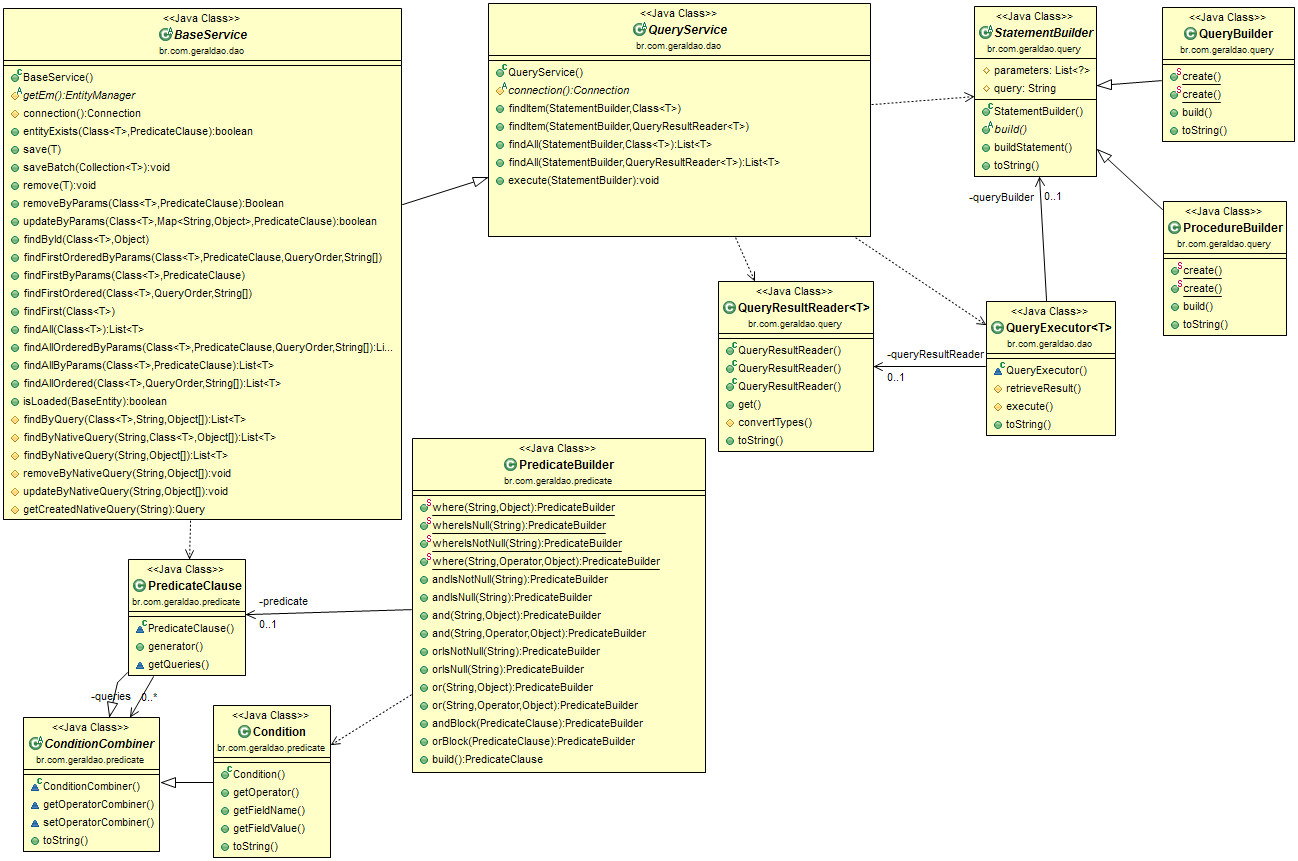
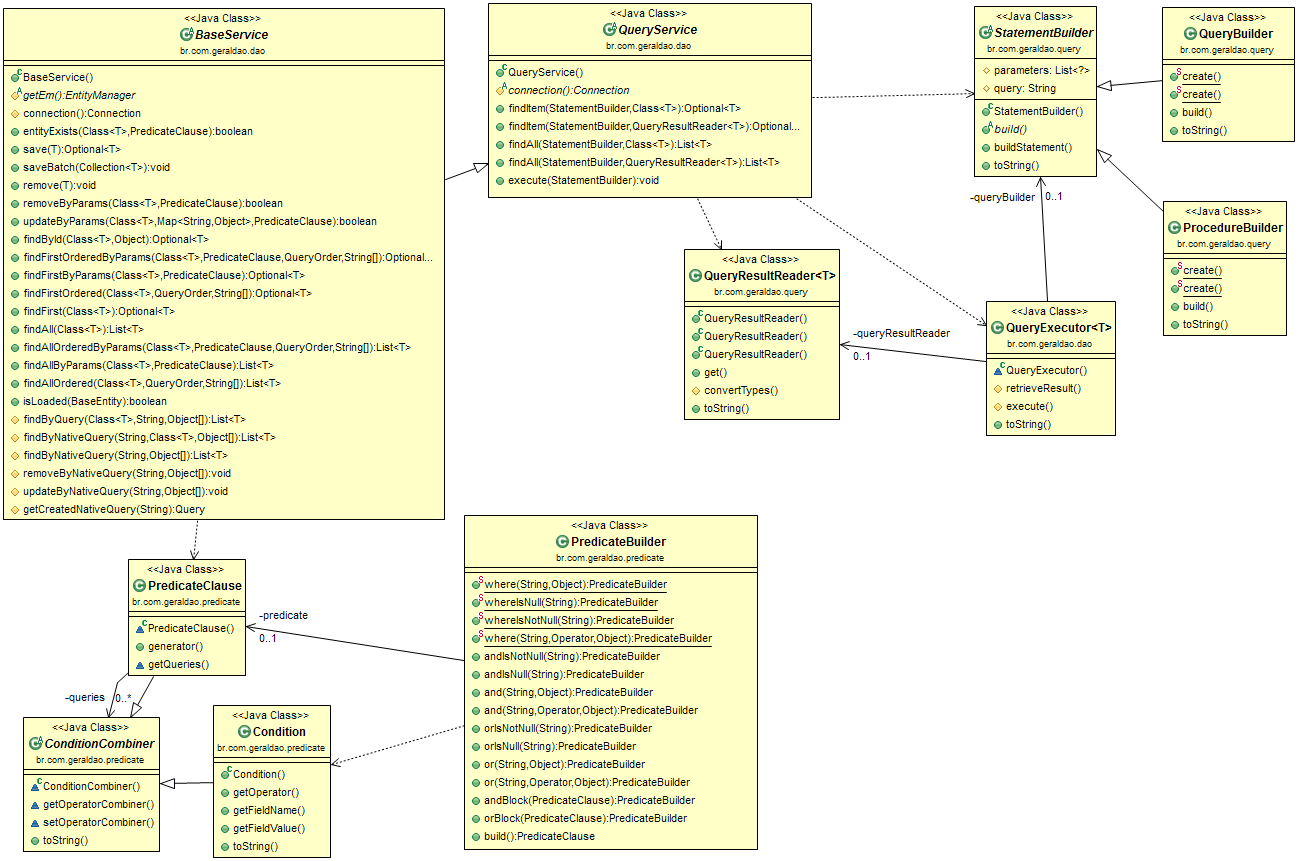
- Added findFirst method without predicateClause
- Change method which return only one object to return an Optional of it.
- Update tests case
- Fixing removing entity on baseService
- Fix getEm() calling more than once on the same method
- updated diagram

diff --git a/src/main/java/br/com/geraldao/dao/BaseService.java b/src/main/java/br/com/geraldao/dao/BaseService.java
@@ -7,6 +7,7 @@ import java.util.Collections;
 import java.util.Iterator;
 import java.util.List;
 import java.util.Map;
+import java.util.Optional;
 
 import javax.persistence.EntityManager;
 import javax.persistence.PersistenceUnitUtil;
@@ -50,7 +51,8 @@ public abstract class BaseService extends QueryService {
     protected Connection connection() {
         String connectionUnwrapError = "Unable to get connection from entityManager. BaseService connection() method must be overrided and implemented according to JPA plataform vendor";
         try {
-            Connection connection = getEm().unwrap(Connection.class);
+            EntityManager em = getEm();
+            Connection connection = em.unwrap(Connection.class);
             if (connection == null) {
                 throw new NullPointerException(connectionUnwrapError);
             }
@@ -72,7 +74,8 @@ public abstract class BaseService extends QueryService {
      * @see PredicateBuilder
      */
     public <T> boolean entityExists(Class<T> entity, PredicateClause predicateClause) {
-        CriteriaBuilder cb = getEm().getCriteriaBuilder();
+        EntityManager em = getEm();
+        CriteriaBuilder cb = em.getCriteriaBuilder();
         CriteriaQuery<Long> cq = cb.createQuery(Long.class);
         Root<T> root = cq.from(entity);
         cq.select(cb.count(root));
@@ -82,7 +85,7 @@ public abstract class BaseService extends QueryService {
             Predicate[] conditions = predicates.toArray(new Predicate[predicates.size()]);
             cq.where(conditions);
         }
-        Long resultList = getEm().createQuery(cq).getSingleResult();
+        Long resultList = em.createQuery(cq).getSingleResult();
         return resultList > 0;
     }
 
@@ -91,14 +94,17 @@ public abstract class BaseService extends QueryService {
      * 
      * @param entity
      *            - Desired mapped entity object to save
-     * @return - Updated object with new ID (if new object)
+     * @return - Optional with updated object with new ID (if new object)
+     * @throws NullPointerException
+     *             if optional is null
      */
-    public <T extends BaseEntity> T save(T entity) {
+    public <T extends BaseEntity> Optional<T> save(T entity) {
+        EntityManager em = getEm();
         if (entity.getId() == null) {
-            getEm().persist(entity);
-            return entity;
+            em.persist(entity);
+            return Optional.of(entity);
         } else {
-            return getEm().merge(entity);
+            return Optional.of(em.merge(entity));
         }
     }
 
@@ -109,12 +115,13 @@ public abstract class BaseService extends QueryService {
      *            - Collection with items to save
      */
     public <T extends BaseEntity> void saveBatch(Collection<T> items) {
+        EntityManager em = getEm();
         for (Iterator<T> iterator = items.iterator(); iterator.hasNext();) {
             T t = (T) iterator.next();
             if (t.getId() == null) {
-                getEm().persist(t);
+                em.persist(t);
             } else {
-                getEm().merge(t);
+                em.merge(t);
             }
         }
     }
@@ -126,7 +133,9 @@ public abstract class BaseService extends QueryService {
      *            - Item desired to remove
      */
     public <T extends BaseEntity> void remove(T entity) {
-        getEm().remove(entity);
+        EntityManager em = getEm();
+        BaseEntity ref = em.getReference(entity.getClass(), entity.getId());
+        em.remove(ref);
     }
 
     /**
@@ -141,8 +150,9 @@ public abstract class BaseService extends QueryService {
      * @see PredicateClause
      * @see PredicateBuilder
      */
-    public <T> Boolean removeByParams(Class<T> entityClass, PredicateClause predicateClause) {
-        CriteriaBuilder cb = getEm().getCriteriaBuilder();
+    public <T> boolean removeByParams(Class<T> entityClass, PredicateClause predicateClause) {
+        EntityManager em = getEm();
+        CriteriaBuilder cb = em.getCriteriaBuilder();
         CriteriaDelete<T> delete = cb.createCriteriaDelete(entityClass);
         Root<T> root = delete.from(entityClass);
         if (predicateClause != null) {
@@ -150,7 +160,7 @@ public abstract class BaseService extends QueryService {
             Predicate[] conditions = predicates.toArray(new Predicate[predicates.size()]);
             delete.where(conditions);
         }
-        Query query = getEm().createQuery(delete);
+        Query query = em.createQuery(delete);
         int rowCount = query.executeUpdate();
         if (rowCount > 0) {
             return true;
@@ -174,7 +184,8 @@ public abstract class BaseService extends QueryService {
      */
 
     public <T> boolean updateByParams(Class<T> entityClass, Map<String, Object> values, PredicateClause predicateClause) {
-        CriteriaBuilder cb = getEm().getCriteriaBuilder();
+        EntityManager em = getEm();
+        CriteriaBuilder cb = em.getCriteriaBuilder();
         CriteriaUpdate<T> update = cb.createCriteriaUpdate(entityClass);
         Root<T> root = update.from(entityClass);
 
@@ -189,7 +200,7 @@ public abstract class BaseService extends QueryService {
         } else {
             LOGGER.debug("Be careful, you just entered on Isaac mode");
         }
-        Query query = getEm().createQuery(update);
+        Query query = em.createQuery(update);
         int rowCount = query.executeUpdate();
         if (rowCount > 0) {
             return true;
@@ -207,11 +218,12 @@ public abstract class BaseService extends QueryService {
      *            - Entity (table) to be searched.
      * @param id
      *            - value condition to seek
-     * @return - Object according to entityClass type
+     * @return - Object Encapsulated on {@link Optional} interface based on entityClass type
      * @author victor.bello
+     * @see Optional
      */
-    public <T extends BaseEntity> T findById(Class<T> entityClass, Object id) {
-        return getEm().find(entityClass, id);
+    public <T extends BaseEntity> Optional<T> findById(Class<T> entityClass, Object id) {
+        return Optional.ofNullable(getEm().find(entityClass, id));
     }
 
     /**
@@ -225,15 +237,16 @@ public abstract class BaseService extends QueryService {
      *            - Return ordem of the results. {@link QueryOrder#ASC} will return the result in ascending order. The {@link QueryOrder#DESC} will return the result in descending order.
      * @param columns
      *            - When {@link QueryOrder} is passed by argument, this argument becomes required. This parameter informs the columns which should ordered by
-     * @return - Returns the <b>FIRST</b> item found.
+     * @return - Returns the <b>FIRST</b> item found encapsulated on {@link Optional} interface based on entityClass type
      * @author victor.bello
      * @see PredicateClause
      * @see PredicateBuilder
      */
-    public <T extends BaseEntity> T findFirstOrderedByParams(Class<T> entityClass, PredicateClause predicateClause, QueryOrder order, String... columns) {
-        CriteriaQuery<T> cq = generateSelectQuery(entityClass, predicateClause, order, columns);
-        List<T> resultList = getEm().createQuery(cq).setFirstResult(0).setMaxResults(1).getResultList();
-        return resultList == null ? null : resultList.get(0);
+    public <T extends BaseEntity> Optional<T> findFirstOrderedByParams(Class<T> entityClass, PredicateClause predicateClause, QueryOrder order, String... columns) {
+        EntityManager em = getEm();
+        CriteriaQuery<T> cq = generateSelectQuery(em, entityClass, predicateClause, order, columns);
+        List<T> resultList = em.createQuery(cq).setFirstResult(0).setMaxResults(1).getResultList();
+        return resultList == null ? Optional.empty() : Optional.ofNullable(resultList.get(0));
     }
 
     /**
@@ -243,12 +256,12 @@ public abstract class BaseService extends QueryService {
      *            - Entity (table) to be searched.
      * @param predicateClause
      *            - Where condition to filter
-     * @return - Returns the <b>FIRST</b> item found.
+     * @return - Returns the <b>FIRST</b> item found encapsulated on {@link Optional} interface based on entityClass type
      * @author victor.bello
      * @see PredicateClause
      * @see PredicateBuilder
      */
-    public <T extends BaseEntity> T findFirstByParams(Class<T> entityClass, PredicateClause predicateClause) {
+    public <T extends BaseEntity> Optional<T> findFirstByParams(Class<T> entityClass, PredicateClause predicateClause) {
         return findFirstOrderedByParams(entityClass, predicateClause, null);
     }
 
@@ -261,11 +274,11 @@ public abstract class BaseService extends QueryService {
      *            - Return ordem of the results. {@link QueryOrder#ASC} will return the result in ascending order. The {@link QueryOrder#DESC} will return the result in descending order.
      * @param columns
      *            - When {@link QueryOrder} is passed by argument, this argument becomes required. This parameter informs the columns which should ordered by
-     * @return - Returns the <b>FIRST</b> item found.
+     * @return - Returns the <b>FIRST</b> item found encapsulated on {@link Optional} interface based on entityClass type
      * @author victor.bello
      * 
      */
-    public <T extends BaseEntity> T findFirstOrdered(Class<T> entityClass, QueryOrder order, String... columns) {
+    public <T extends BaseEntity> Optional<T> findFirstOrdered(Class<T> entityClass, QueryOrder order, String... columns) {
         return findFirstOrderedByParams(entityClass, null, order, columns);
     }
 
@@ -274,10 +287,10 @@ public abstract class BaseService extends QueryService {
      * 
      * @param entityClass
      *            - Entity (table) to be searched.
-     * @return - Returns the <b>FIRST</b> item found.
+     * @return - Returns the <b>FIRST</b> item found encapsulated on {@link Optional} interface based on entityClass type
      * @author victor.bello
      */
-    public <T extends BaseEntity> T findFirst(Class<T> entityClass) {
+    public <T extends BaseEntity> Optional<T> findFirst(Class<T> entityClass) {
         return findFirstOrderedByParams(entityClass, null, null);
     }
 
@@ -311,8 +324,9 @@ public abstract class BaseService extends QueryService {
      * @see Collections#emptyList()
      */
     public <T extends BaseEntity> List<T> findAllOrderedByParams(Class<T> entityClass, PredicateClause predicateClause, QueryOrder order, String... columns) {
-        CriteriaQuery<T> cq = generateSelectQuery(entityClass, predicateClause, order, columns);
-        List<T> resultList = getEm().createQuery(cq).getResultList();
+        EntityManager em = getEm();
+        CriteriaQuery<T> cq = generateSelectQuery(em, entityClass, predicateClause, order, columns);
+        List<T> resultList = em.createQuery(cq).getResultList();
         return resultList == null ? Collections.emptyList() : resultList;
     }
 
@@ -364,8 +378,8 @@ public abstract class BaseService extends QueryService {
         return unitUtil.isLoaded(entity);
     }
 
-    private <T extends BaseEntity> CriteriaQuery<T> generateSelectQuery(Class<T> entityClass, PredicateClause predicateClause, QueryOrder order, String... columns) {
-        CriteriaBuilder cb = getEm().getCriteriaBuilder();
+    private <T extends BaseEntity> CriteriaQuery<T> generateSelectQuery(EntityManager em, Class<T> entityClass, PredicateClause predicateClause, QueryOrder order, String... columns) {
+        CriteriaBuilder cb = em.getCriteriaBuilder();
         CriteriaQuery<T> cq = cb.createQuery(entityClass);
         Root<T> root = cq.from(entityClass);
 
@@ -421,11 +435,12 @@ public abstract class BaseService extends QueryService {
      */
     @SuppressWarnings("unchecked")
     protected <T extends BaseEntity> List<T> findByNativeQuery(String query, Class<T> clazz, Object... params) {
+        EntityManager em = getEm();
         Query tquery = null;
         if (clazz == null) {
-            tquery = getEm().createNativeQuery(query, clazz);
+            tquery = em.createNativeQuery(query, clazz);
         } else {
-            tquery = getEm().createNativeQuery(query, clazz);
+            tquery = em.createNativeQuery(query, clazz);
         }
         int idx = 1;
         for (Object param : params) {
@@ -442,7 +457,8 @@ public abstract class BaseService extends QueryService {
     }
 
     protected void removeByNativeQuery(String query, Object... params) {
-        Query tquery = getEm().createNativeQuery(query);
+        EntityManager em = getEm();
+        Query tquery = em.createNativeQuery(query);
         int idx = 1;
         for (Object param : params) {
             tquery.setParameter(idx, param);
@@ -452,7 +468,8 @@ public abstract class BaseService extends QueryService {
     }
 
     protected void updateByNativeQuery(String query, Object... params) {
-        Query tquery = getEm().createNativeQuery(query);
+        EntityManager em = getEm();
+        Query tquery = em.createNativeQuery(query);
         int idx = 1;
         for (Object param : params) {
             tquery.setParameter(idx, param);

diff --git a/src/test/java/br/com/geraldao/service/test/TestQuery.java b/src/test/java/br/com/geraldao/service/test/TestQuery.java
@@ -1,7 +1,5 @@
 package br.com.geraldao.service.test;
 
-import static org.junit.Assert.assertTrue;
-
 import java.sql.SQLException;
 import java.util.ArrayList;
 import java.util.Arrays;
@@ -32,7 +30,7 @@ public class TestQuery {
     @Test
     public void testProcedureWithResult() throws SQLException {
         List<Object> params = Arrays.asList(31, true, true);
-        ProcedureDefaultResult findItem = service.findItem(ProcedureBuilder.create("Sp_UnPbxCleanUserConnection", params), ProcedureDefaultResult.class);
+        ProcedureDefaultResult findItem = service.findItem(ProcedureBuilder.create("Sp_UnPbxCleanUserConnection", params), ProcedureDefaultResult.class).orElse(new ProcedureDefaultResult());
         System.out.println(findItem);
     }
 
@@ -40,7 +38,7 @@ public class TestQuery {
     public void testBProcedureSpecificResultPosition() throws SQLException {
         List<Object> params = Arrays.asList(31, true, true);
         QueryResultReader<String> queryResult = new QueryResultReader<>(String.class, 1);
-        String findItem = service.findItem(ProcedureBuilder.create("Sp_UnPbxCleanUserConnection", params), queryResult);
+        String findItem = service.findItem(ProcedureBuilder.create("Sp_UnPbxCleanUserConnection", params), queryResult).get();
         System.out.println(findItem);
     }
 
@@ -48,7 +46,7 @@ public class TestQuery {
     public void testCProcedureSpecificResultName() throws SQLException {
         List<Object> params = Arrays.asList(31, true, true);
         QueryResultReader<String> queryResult = new QueryResultReader<>(String.class, "resultDescription");
-        String findItem = service.findItem(ProcedureBuilder.create("Sp_UnPbxCleanUserConnection", params), queryResult);
+        String findItem = service.findItem(ProcedureBuilder.create("Sp_UnPbxCleanUserConnection", params), queryResult).get();
         System.out.println(findItem);
     }
 
@@ -60,7 +58,7 @@ public class TestQuery {
         params.add(true);
         params.add(true);
         QueryResultReader<Integer> queryResult = new QueryResultReader<>(Integer.class);
-        Integer findItem = service.findItem(ProcedureBuilder.create("Sp_UnPbxCleanUserConnection", params), queryResult);
+        Integer findItem = service.findItem(ProcedureBuilder.create("Sp_UnPbxCleanUserConnection", params), queryResult).get();
         System.out.println(findItem);
     }
 
@@ -76,14 +74,14 @@ public class TestQuery {
     @Test
     public void testFQueryField() throws SQLException {
         QueryResultReader<Integer> queryResult = new QueryResultReader<>(Integer.class, 1);
-        Integer findItem = service.findItem(QueryBuilder.create("SELECT * FROM TUNPBXUSER WHERE IDUser = ?", Arrays.asList(31)), queryResult);
+        Integer findItem = service.findItem(QueryBuilder.create("SELECT * FROM TUNPBXUSER WHERE IDUser = ?", Arrays.asList(31)), queryResult).get();
         System.out.println(findItem);
     }
 
     @Test
     public void testGQueryFieldDateType() throws SQLException {
         QueryResultReader<Date> queryResult = new QueryResultReader<>(Date.class, "ENDOFLASTATTENDANCE");
-        Date findItem = service.findItem(QueryBuilder.create("SELECT * FROM TUNPBXUSER WHERE IDUser = ?", Arrays.asList(31)), queryResult);
+        Date findItem = service.findItem(QueryBuilder.create("SELECT * FROM TUNPBXUSER WHERE IDUser = ?", Arrays.asList(666)), queryResult).orElse(new Date());
         System.out.println(findItem);
     }
 
@@ -97,7 +95,7 @@ public class TestQuery {
     @Test
     public void testIQueryFieldDateType() throws SQLException {
         QueryResultReader<Integer> queryResult = new QueryResultReader<>(Integer.class, "IDUser");
-        Integer findItem = service.findItem(QueryBuilder.create("SELECT * FROM TUNPBXUSER"), queryResult);
+        Integer findItem = service.findItem(QueryBuilder.create("SELECT * FROM TUNPBXUSER"), queryResult).get();
         System.out.println(findItem);
     }
 

diff --git a/src/main/java/br/com/geraldao/dao/QueryService.java b/src/main/java/br/com/geraldao/dao/QueryService.java
@@ -4,6 +4,7 @@ import java.sql.Connection;
 import java.sql.SQLException;
 import java.util.Date;
 import java.util.List;
+import java.util.Optional;
 
 import org.apache.log4j.Logger;
 
@@ -35,7 +36,7 @@ public abstract class QueryService {
     protected abstract Connection connection();
 
     /**
-     * Executes a query or procedure and returns its result based on clazz parameter.
+     * Executes a query or procedure and returns its result encapsulated on {@link Optional} interface based on clazz parameter.
      * 
      * @param builder
      *            Class which extends {@link StatementBuilder}. This class is used to create statements and execute it accordingly.
@@ -46,12 +47,12 @@ public abstract class QueryService {
      * @author victor.bello
      * @see {@link QueryResultReader}
      */
-    public <T> T findItem(StatementBuilder builder, Class<T> clazz) throws SQLException {
-        return (T) findItem(builder, new QueryResultReader<T>(clazz));
+    public <T> Optional<T> findItem(StatementBuilder builder, Class<T> clazz) throws SQLException {
+        return findItem(builder, new QueryResultReader<T>(clazz));
     }
 
     /**
-     * Executes a query or procedure and returns its result based on {@code QueryResultReader}.
+     * Executes a query or procedure and returns its result encapsulated on {@link Optional} interface based on clazz parameter.
      * 
      * @param builder
      *            Class which extends {@link StatementBuilder}. This class is used to create statements and execute it accordingly.
@@ -62,9 +63,9 @@ public abstract class QueryService {
      * @author victor.bello
      * @see {@link QueryResultReader}
      */
-    public <T> T findItem(StatementBuilder builder, QueryResultReader<T> reader) throws SQLException {
+    public <T> Optional<T> findItem(StatementBuilder builder, QueryResultReader<T> reader) throws SQLException {
         Result<T> resultReturn = execute(builder, reader, ResultType.ITEM);
-        return resultReturn.obj;
+        return Optional.ofNullable(resultReturn.obj);
     }
 
     /**

diff --git a/src/test/java/br/com/geraldao/service/test/TestJPA.java b/src/test/java/br/com/geraldao/service/test/TestJPA.java
@@ -51,7 +51,7 @@ public class TestJPA {
         PredicateClause block = PredicateBuilder.where("login", Operator.ENDS_WITH, "r").andIsNull("oldPassword").build();
         PredicateClause build = PredicateBuilder.where("login", "victor").andIsNotNull("oldPassword").orBlock(block).build();
         Class<User> entityClass = User.class;
-        User users = service.findFirstOrderedByParams(entityClass, build, QueryOrder.DESC, "login");
+        User users = service.findFirstOrderedByParams(entityClass, build, QueryOrder.DESC, "login").get();
         System.out.println("Generated query: select <mapped columns> from TUnpbxUser where login = 'victor' and oldPassword is not null or (login like '%r' and oldPassword is null)");
         assertThat(users, CoreMatchers.instanceOf(entityClass));
         System.out.println(users);

diff --git a/src/main/java/br/com/geraldao/dao/QueryExecutor.java b/src/main/java/br/com/geraldao/dao/QueryExecutor.java
@@ -9,8 +9,8 @@ import java.util.List;
 
 import org.apache.log4j.Logger;
 
-import br.com.geraldao.query.StatementBuilder;
 import br.com.geraldao.query.QueryResultReader;
+import br.com.geraldao.query.StatementBuilder;
 
 /**
  * 
